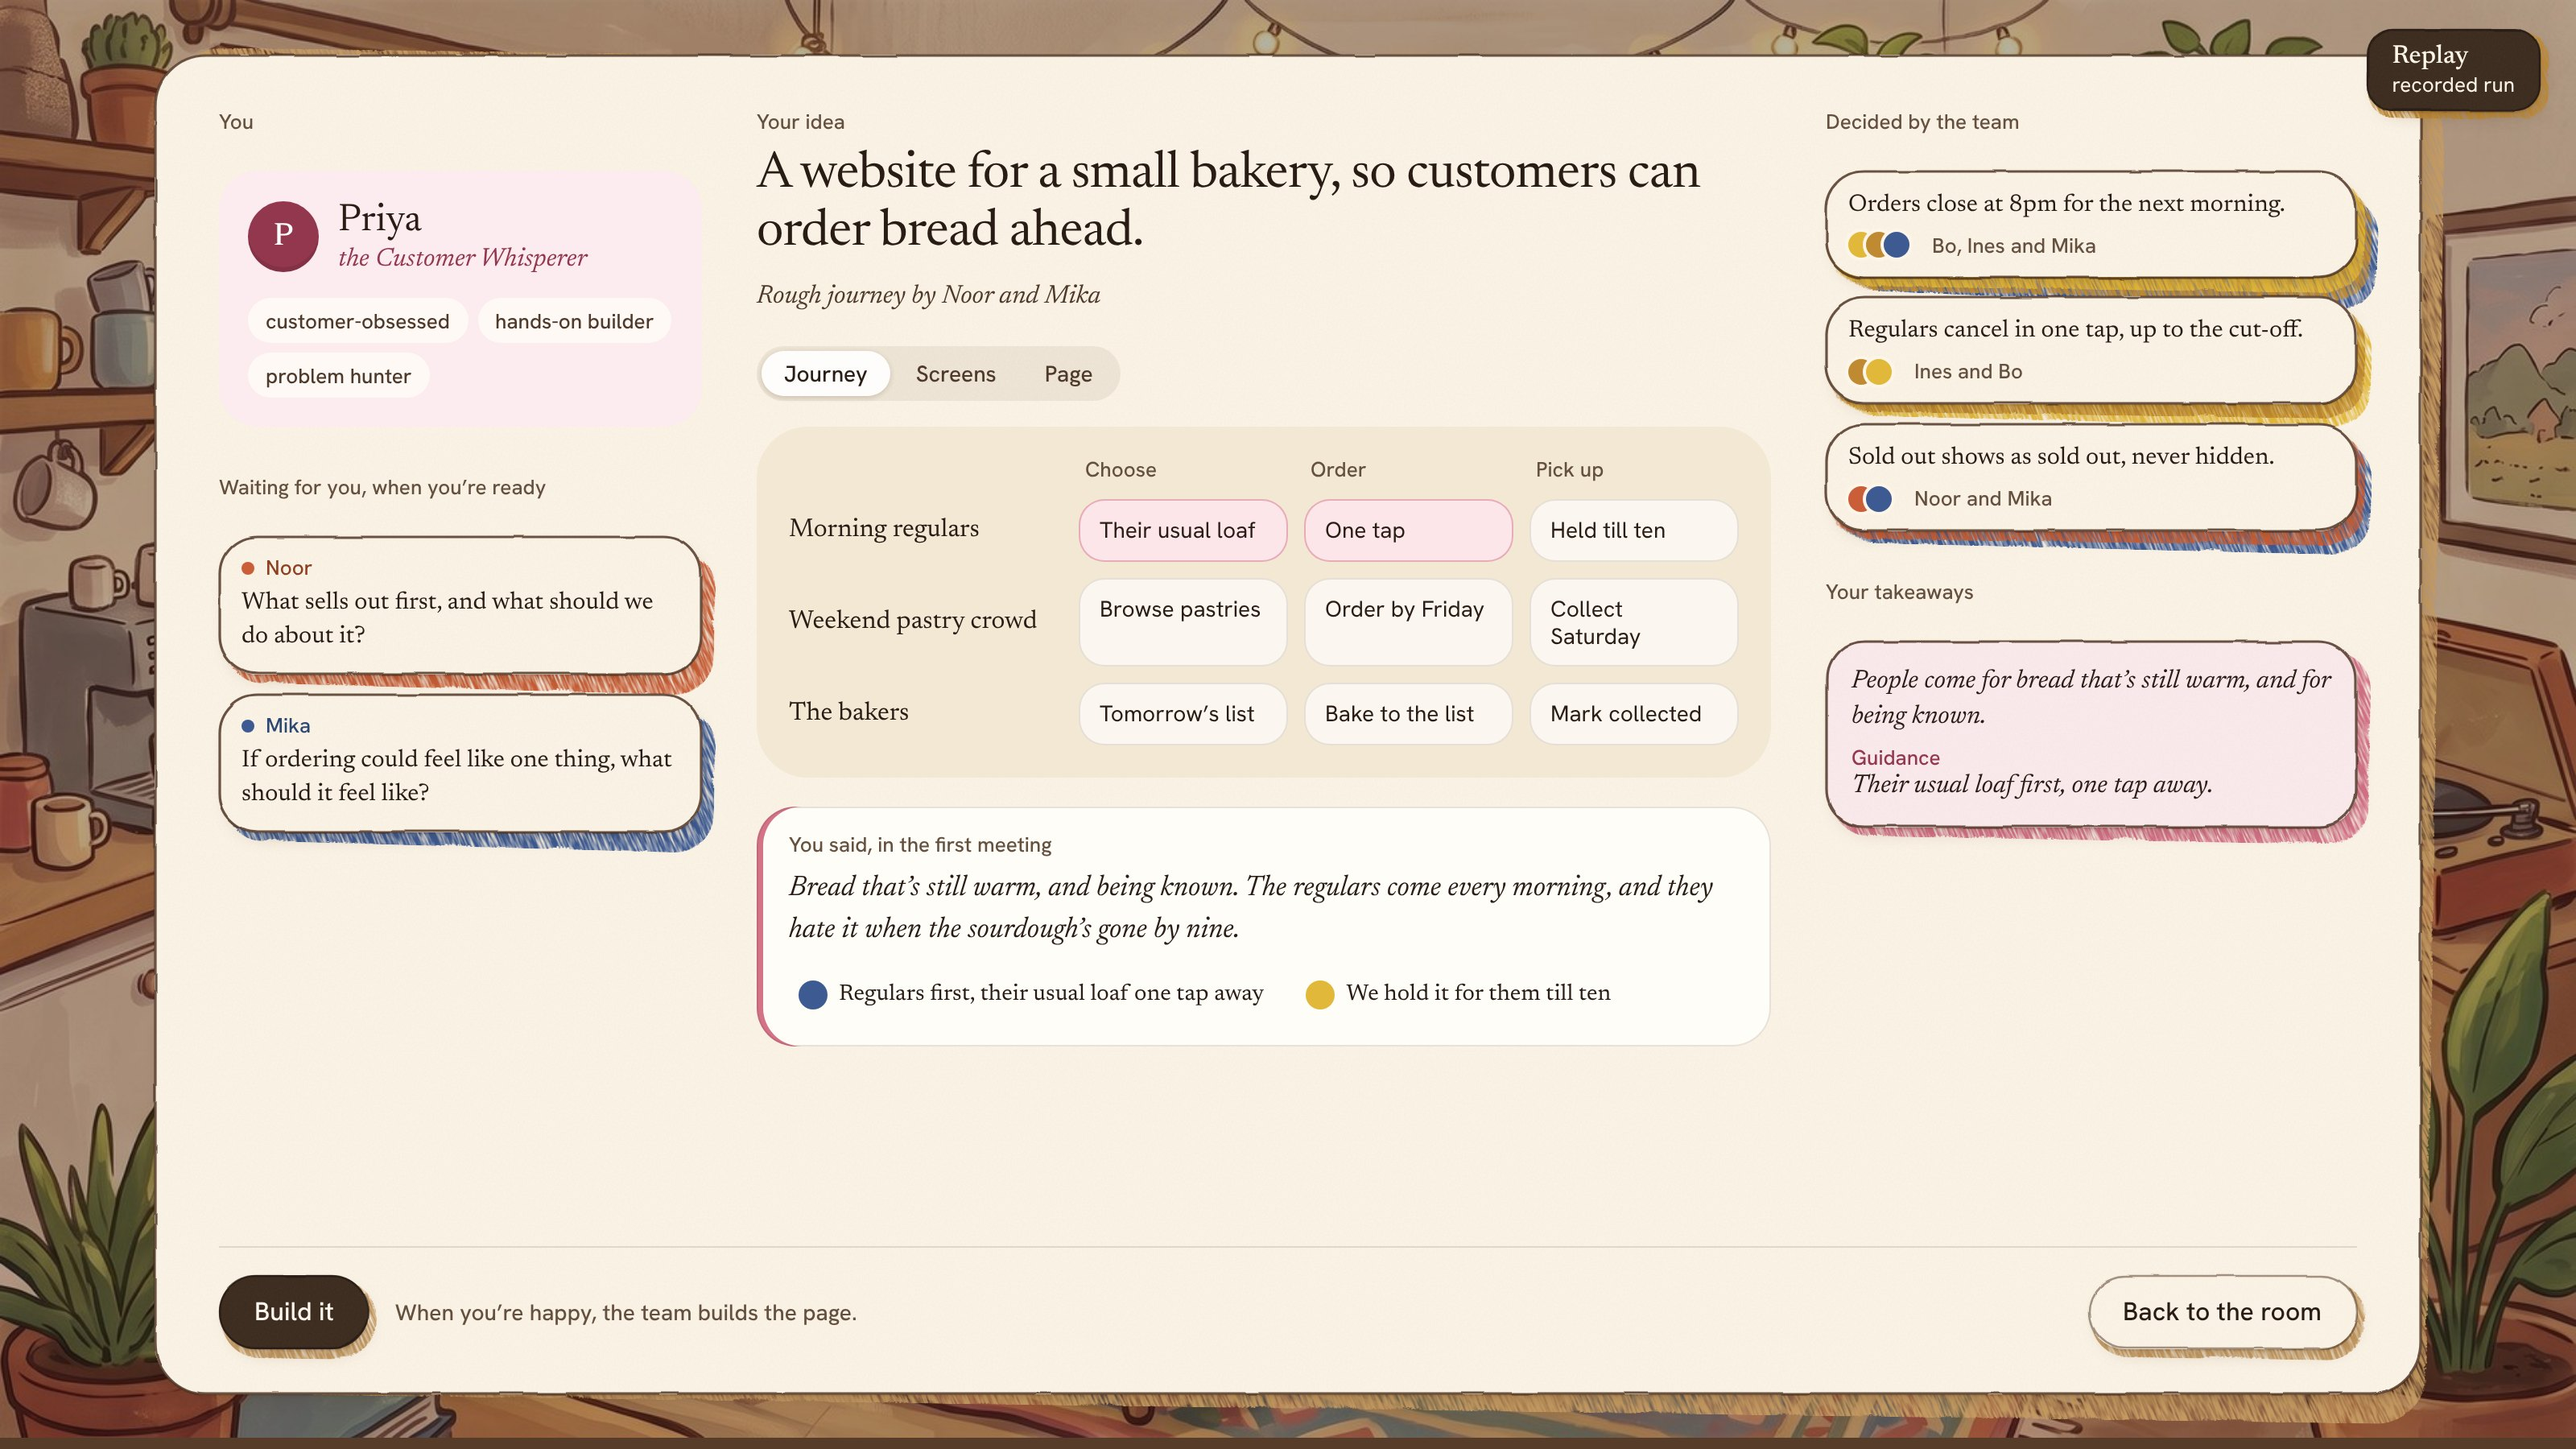
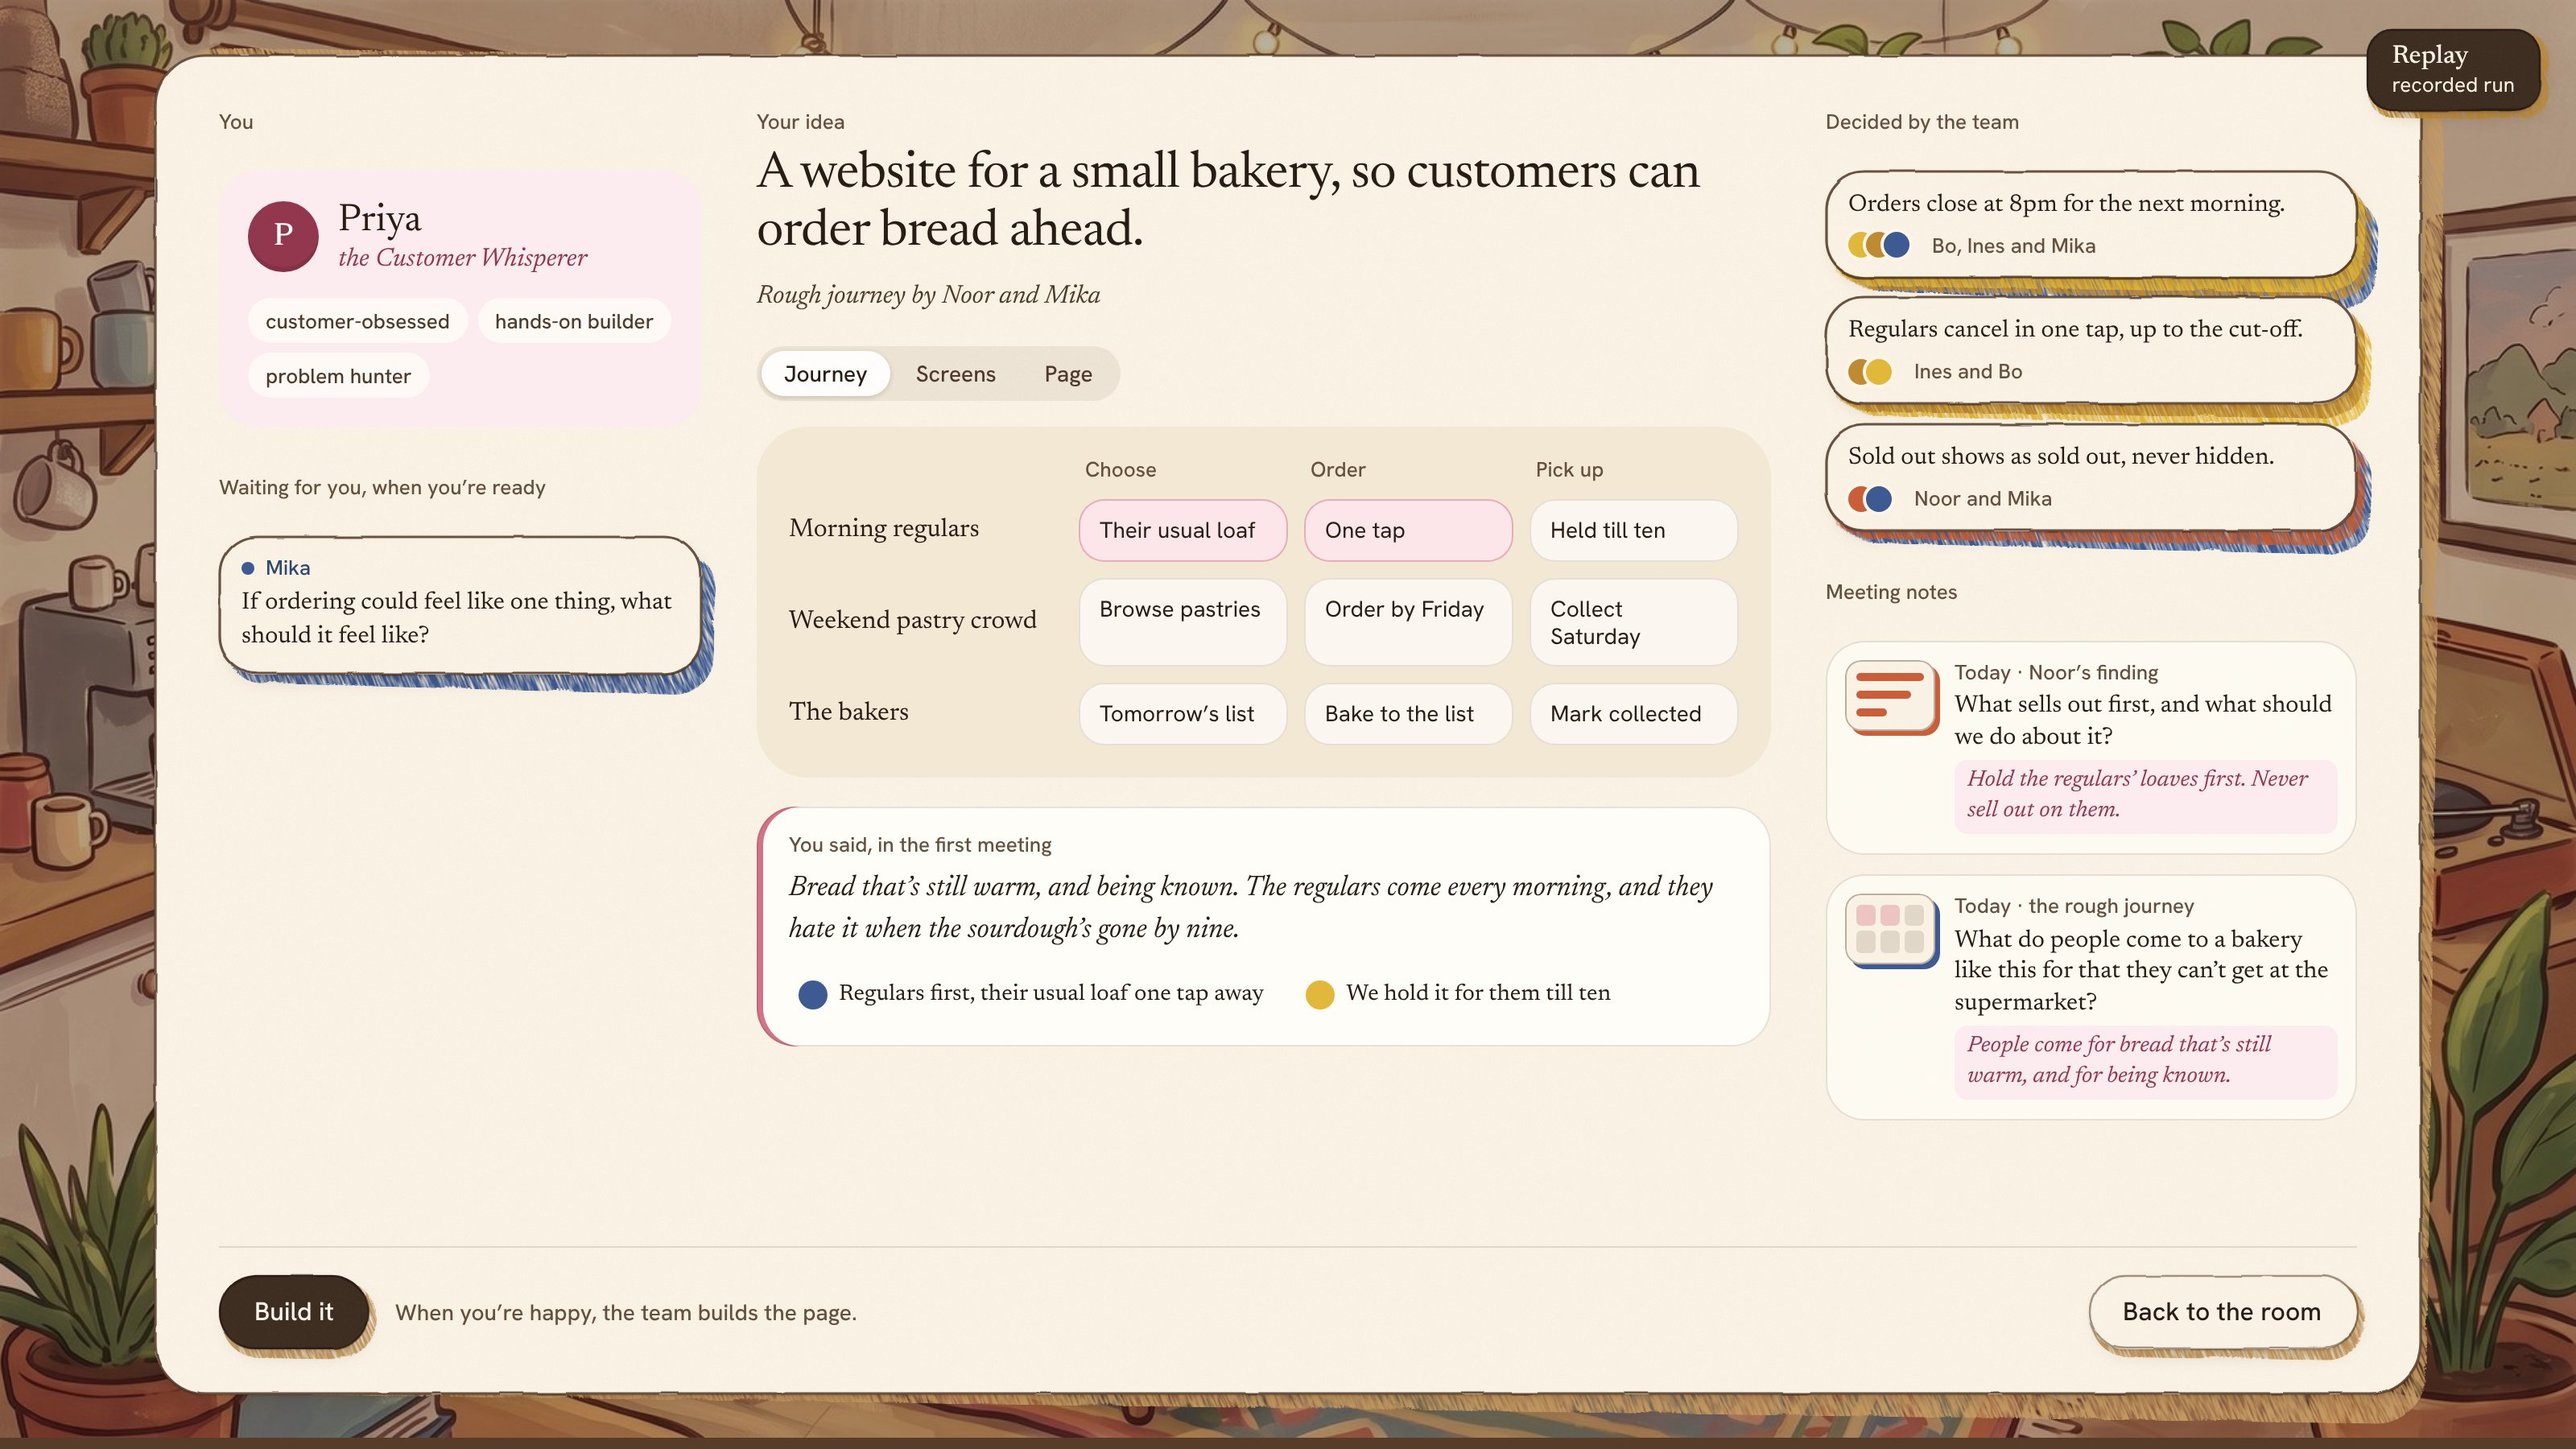
Her workspace: meeting notes, newest first, opening into the full write-up
Claude-Session: https://claude.ai/code/session_013ka3w4mYCjZQ4UZXpyjYjQ

Changed region(s): [[0.0938, 0.3733, 0.2812, 0.5911], [0.7188, 0.4044, 0.9375, 0.5911], [0.7188, 0.6222, 0.9062, 0.7467]]

diff --git a/public/looks/comps/her-seat-ink.html b/public/looks/comps/her-seat-ink.html
@@ -6,7 +6,7 @@
 <link rel="stylesheet" href="../ink-paper.css">
 <style>
 /* Her seat, the teammate popover and her workspace, in ink and paper (../ink-paper.css, ../ink-paper.js).
-   Views: ?seat=a|b|c &st=setup|choose|after|own|card|seated · &pop=noor|bo · &ws=1 · &still=1. No params: the walk-through autoplays;
+   Views: ?seat=a|b|c &st=setup|choose|after|own|card|seated · &pop=noor|bo · &ws=1 (&note=1 opens a meeting note) · &still=1. No params: the walk-through autoplays;
    ?flow=own autoplays the "your own craft" path (pick, her name once, one sentence, the team's spin as her card, seated).
    &name=Sam sets the name; &name= (empty) shows the skipped case, where the card says "You".
    Rules kept: no square corners, the UI never covers a character, text on solid paper, no counts or red. */
@@ -78,8 +78,8 @@ html, body { margin: 0; background: #2B1F17; }
 .pick .say .mic svg { width: 15px; height: 15px; fill: none; stroke: var(--ip-her-t); stroke-width: 1.6; stroke-linecap: round; }
 .pick .row-end { display: flex; justify-content: flex-end; }
 .pick .btn { height: 42px; font-size: 15px; }
-.char { width: 356px; z-index: 5; }
-.canvas.ink-paper .char { padding: 18px 20px 18px; }
+.card.char { width: 356px; z-index: 5; }
+.canvas.ink-paper .card.char { padding: 18px 20px 18px; }
 .char > .gl { --sheet: var(--ip-paper-her); }
 .char .lab { color: var(--ip-her-t); }
 .char .who { display: flex; align-items: center; gap: 12px; margin: 10px 0 12px; }
@@ -99,6 +99,35 @@ html, body { margin: 0; background: #2B1F17; }
 .pick .nmbox .skip { position: absolute; right: 6px; top: 5px; height: 32px; padding: 0 12px; border: 0; border-radius: 999px; background: none; cursor: pointer;
   font: 500 13px/1 var(--ip-sans); color: var(--ip-ink-2); }
 .pick .nmbox .skip:hover { background: rgba(84,58,38,.08); }
+/* meeting notes in her workspace */
+.mnote { display: grid; grid-template-columns: 56px 1fr; gap: 12px; align-items: start; width: 100%; padding: 12px 12px 13px; border: 0; border-radius: var(--ip-r-md); cursor: pointer; text-align: left;
+  background: rgba(255,253,248,.7); box-shadow: inset 0 0 0 1px var(--ip-rule); transition: translate .18s var(--ip-land), box-shadow .18s; font: inherit; color: var(--ip-ink); }
+.mnote:hover, .mnote.is-hover { translate: 0 -2px; box-shadow: inset 0 0 0 1px var(--ip-rule), var(--ip-lift); }
+.mnote .thumb { position: relative; width: 56px; height: 44px; border-radius: 10px; background: var(--ip-paper) var(--ip-tooth); box-shadow: 3px 3px 0 0 var(--c), inset 0 0 0 1px rgba(74,48,32,.35); padding: 7px; display: grid; gap: 3px; }
+.mnote .thumb.journey { grid-template-columns: repeat(3, 1fr); } .mnote .thumb.journey i { border-radius: 3px; background: rgba(212,114,136,.35); }
+.mnote .thumb.journey i:nth-child(n+3) { background: rgba(84,58,38,.14); }
+.mnote .thumb.finding i { height: 5px; border-radius: 3px; background: var(--c); align-self: center; } .mnote .thumb.finding i:nth-child(2) { width: 80%; } .mnote .thumb.finding i:nth-child(3) { width: 45%; }
+.mnote .mt { display: flex; flex-direction: column; gap: 4px; min-width: 0; }
+.mnote .q { font: 400 15px/1.3 var(--ip-serif); }
+.mnote .bel { font: italic 400 14px/1.35 var(--ip-serif); color: var(--ip-her-t); padding: 4px 8px; border-radius: 8px; background: var(--ip-paper-her); align-self: flex-start; }
+.ws .mopen { position: absolute; left: 356px; top: 22px; right: 24px; bottom: 96px; z-index: 3; }
+.canvas.ink-paper .ws .mopen { padding: 26px 30px 26px; }
+.mopen .x { position: absolute; right: 18px; top: 18px; width: 34px; height: 34px; border-radius: 50%; border: 0; background: var(--ip-inset); cursor: pointer; display: grid; place-items: center; }
+.mopen .x svg { width: 12px; height: 12px; stroke: var(--ip-ink-2); stroke-width: 2; stroke-linecap: round; }
+.mopen h2 { margin: 8px 0 18px; font: 400 30px/1.2 var(--ip-serif); letter-spacing: -.012em; max-width: 30ch; }
+.mopen .mgrid { display: grid; grid-template-columns: 1fr 1fr; gap: 26px; }
+.canvas.ink-paper .mopen .snap { padding: 18px 20px; }
+.mopen .snap .lab { display: flex; align-items: center; gap: 7px; color: var(--t); } .mopen .snap .lab i { width: 8px; height: 8px; border-radius: 50%; background: var(--c); }
+.mopen .snap p { margin: 8px 0 14px; font: 400 17px/1.4 var(--ip-serif); }
+.mopen .bars { display: grid; gap: 7px; }
+.mopen .bars span { position: relative; padding: 5px 10px; font: 400 14px/1.2 var(--ip-sans); }
+.mopen .bars span::before { content: ''; position: absolute; left: 0; top: 0; bottom: 0; width: var(--w); border-radius: 8px; background: color-mix(in srgb, var(--ip-noor) 26%, transparent); z-index: -1; }
+.mopen .snap .src { margin-top: 12px; color: var(--ip-ink-2); }
+.mopen .wr { display: flex; flex-direction: column; gap: 14px; align-items: flex-start; }
+.canvas.ink-paper .mopen .take { padding: 16px 18px; width: 100%; }
+.mopen .take p { margin: 4px 0 0; font: 400 17px/1.35 var(--ip-serif); } .mopen .take .b { font-style: italic; font-size: 19px; }
+.mopen .chimes { display: flex; flex-direction: column; gap: 10px; width: 100%; }
+.mopen .bubble { max-width: none; font-size: 16px; }
 /* notes waiting, resting beside the stool: in the ink of who left them, no number */
 .rest { z-index: 2; }
 .rest .note { position: absolute; width: 168px; padding: 10px 12px 11px; font-size: 14px; line-height: 1.3; }
@@ -267,7 +296,6 @@ html, body { margin: 0; background: #2B1F17; }
         <div class="traits"><span>customer-obsessed</span><span>hands-on builder</span><span>problem hunter</span></div></div>
       <div class="gap"></div>
       <h4>Waiting for you, when you’re ready</h4>
-      <div class="note" data-who="noor"><span class="lab"><i></i>Noor</span>What sells out first, and what should we do about it?</div>
       <div class="note" data-who="mika"><span class="lab"><i></i>Mika</span>If ordering could feel like one thing, what should it feel like?</div>
     </div>
     <div class="mid">
@@ -293,8 +321,35 @@ html, body { margin: 0; background: #2B1F17; }
       <div class="decision" style="--c:var(--ip-ines);--c2:var(--ip-bo);--c3:transparent">Regulars cancel in one tap, up to the cut-off.<div class="by"><span class="marks"><i data-who="ines"></i><i data-who="bo"></i></span><span class="lab" style="margin-left:6px">Ines and Bo</span></div></div>
       <div class="decision" style="--c:var(--ip-noor);--c2:var(--ip-mika);--c3:transparent">Sold out shows as sold out, never hidden.<div class="by"><span class="marks"><i data-who="noor"></i><i data-who="mika"></i></span><span class="lab" style="margin-left:6px">Noor and Mika</span></div></div>
       <div class="gap"></div>
-      <h4>Your takeaways</h4>
-      <div class="take ta"><p>People come for bread that’s still warm, and for being known.</p><em>Guidance</em><p>Their usual loaf first, one tap away.</p></div>
+      <h4>Meeting notes</h4>
+      <!-- past reviews, newest first: the question, the work it was about, her one-line belief. Shape agreed with the wrap-up page. -->
+      <button class="mnote" data-who="noor" id="mn1"><span class="thumb finding"><i></i><i></i><i></i></span>
+        <span class="mt"><span class="lab">Today · Noor’s finding</span><span class="q">What sells out first, and what should we do about it?</span>
+        <span class="bel">Hold the regulars’ loaves first. Never sell out on them.</span></span></button>
+      <button class="mnote" data-who="mika" id="mn2"><span class="thumb journey"><i></i><i></i><i></i><i></i><i></i><i></i></span>
+        <span class="mt"><span class="lab">Today · the rough journey</span><span class="q">What do people come to a bakery like this for that they can’t get at the supermarket?</span>
+        <span class="bel">People come for bread that’s still warm, and for being known.</span></span></button>
+    </div>
+    <!-- one meeting note, opened: the full write-up -->
+    <div class="card mopen hide" data-who="noor" id="mopen">
+      <button class="x" id="mclose" aria-label="Back to your workspace"><svg viewBox="0 0 12 12"><path d="M2 2l8 8M10 2l-8 8"/></svg></button>
+      <span class="lab">Meeting notes · today · with Noor, Bo and Ines</span>
+      <h2>What sells out first, and what should we do about it?</h2>
+      <div class="mgrid">
+        <div class="snap card" data-who="noor"><span class="lab"><i></i>Noor’s finding, as you saw it</span>
+          <p>At small bakeries, sourdough and morning buns sell out first, often before nine. Regulars feel it most.</p>
+          <div class="bars"><span style="--w:92%">Sourdough</span><span style="--w:78%">Morning buns</span><span style="--w:41%">Rye</span><span style="--w:22%">Pastries</span></div>
+          <span class="lab src">Two sources: baker interviews, a bakery forum thread</span></div>
+        <div class="wr">
+          <div class="take"><span class="lab">What I believe</span><p class="b">Hold the regulars’ loaves first. Never sell out on them.</p>
+            <span class="lab" style="margin-top:12px;display:block">Guidance</span><p>Their usual loaf is set aside at 7am; walk-ins get the rest.</p></div>
+          <div class="chimes">
+            <div class="bubble" data-who="bo"><b>Bo</b>Then we reserve their loaf when the order lands, not at the till.</div>
+            <div class="bubble" data-who="ines"><b>Ines</b>And a standing order makes that free to promise.</div>
+          </div>
+          <button class="btn quiet">Read the conversation</button>
+        </div>
+      </div>
     </div>
     <div class="foot"><button class="btn">Build it</button><span class="lab">When you’re happy, the team builds the page.</span>
       <button class="btn quiet close" id="wsClose">Back to the room</button></div>
@@ -456,6 +511,11 @@ html, body { margin: 0; background: #2B1F17; }
   }
   $('#herPill').addEventListener('click', openWs);
   $('#wsClose').addEventListener('click', closeWs);
+  // a meeting note opens into the full write-up, over the workspace's middle, and closes back
+  async function openNote() { const m = $('#mopen'); show(m); m.querySelectorAll('.pane').forEach(InkPaper.redraw); InkPaper.redraw(m);
+    if (!still) { InkPaper.lay(m); m.querySelectorAll('.pane').forEach((el, i) => InkPaper.lay(el, .25 + i * .1)); } }
+  $('#mn1').addEventListener('click', openNote);
+  $('#mclose').addEventListener('click', () => hide($('#mopen')));
 
   /* ---------- views ---------- */
   const st = q.get('st');
@@ -488,7 +548,7 @@ html, body { margin: 0; background: #2B1F17; }
     if (st === 'setup' || st === 'choose') { setup(); $('#team').style.opacity = 1; if (st === 'choose') openPick(); }
     else after();
     if (q.get('pop')) popover(q.get('pop'));
-    if (q.get('ws')) openWs();
+    if (q.get('ws')) openWs().then(() => { if (q.get('note')) openNote(); });
     return;
   }
 
